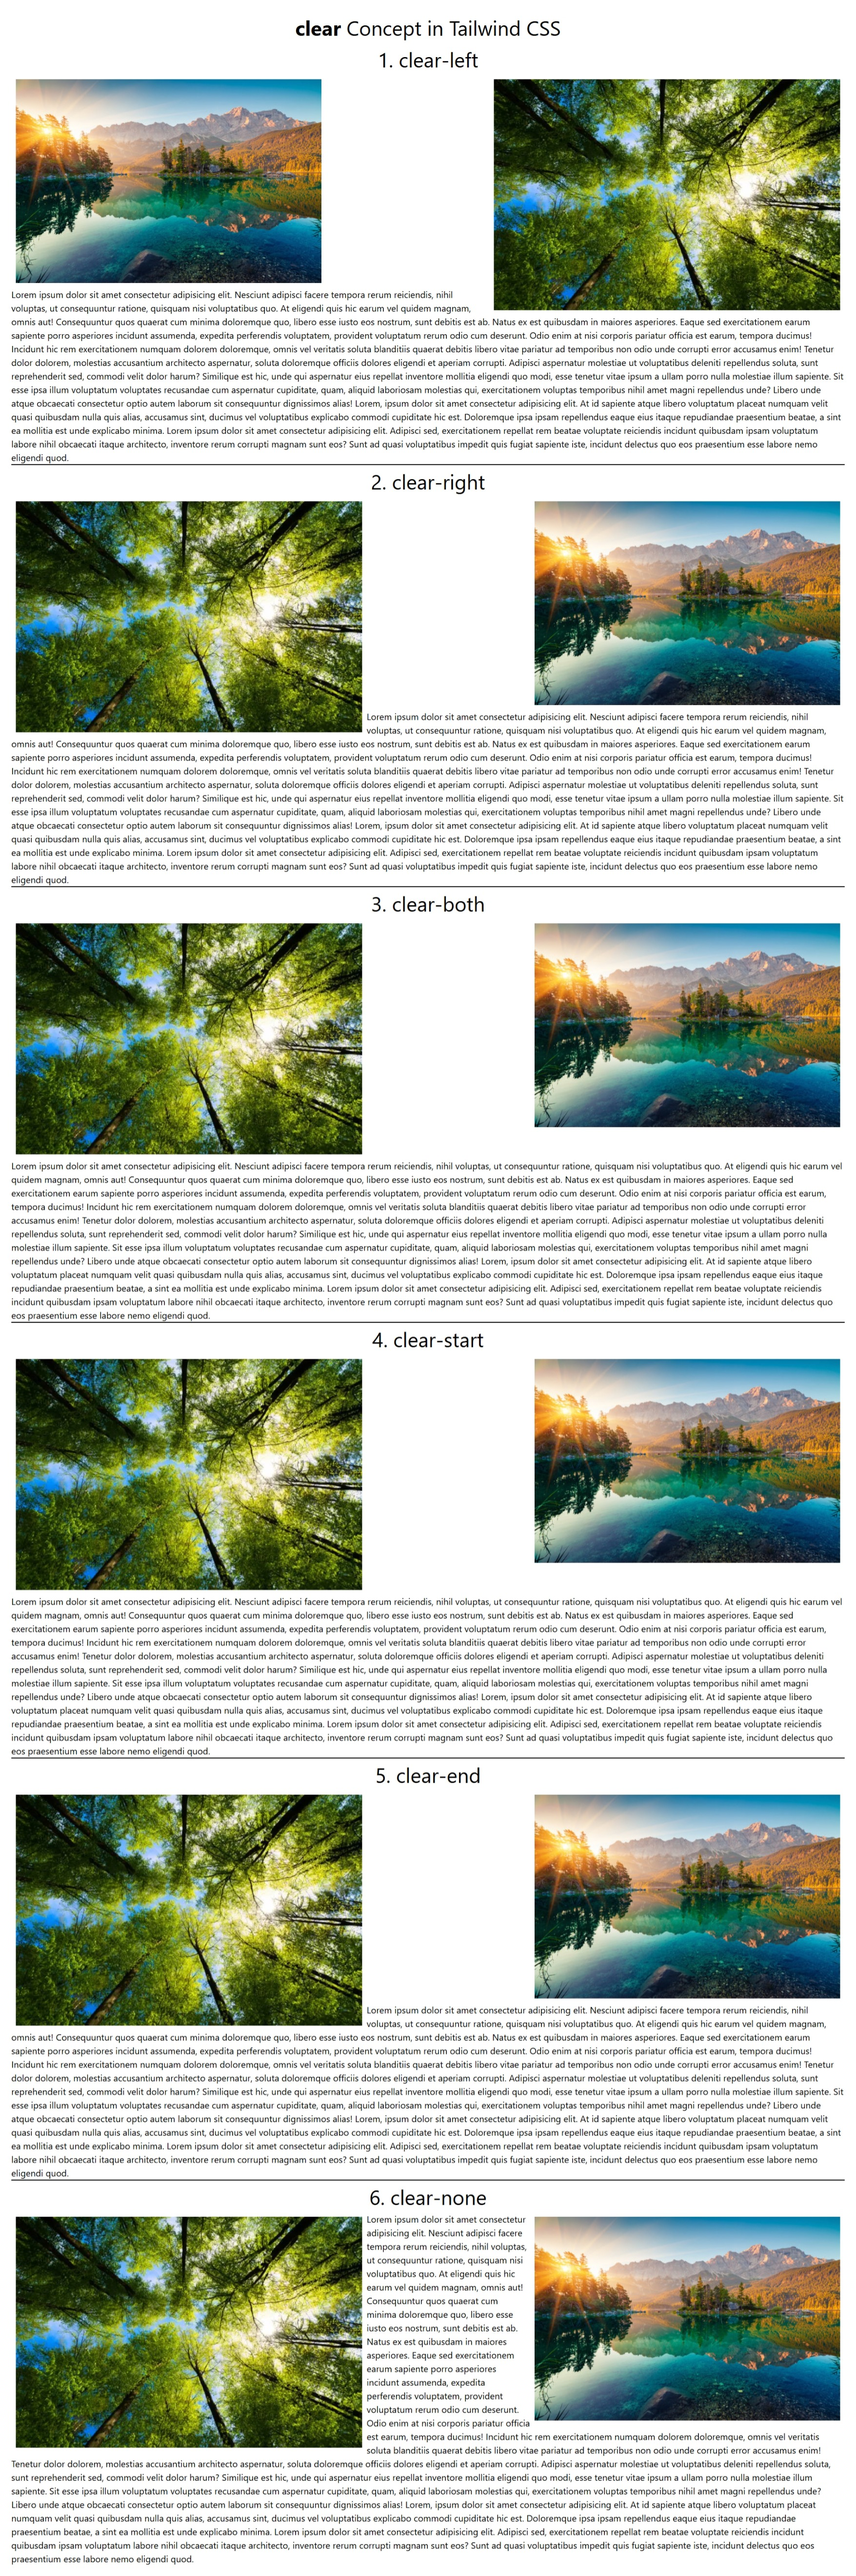
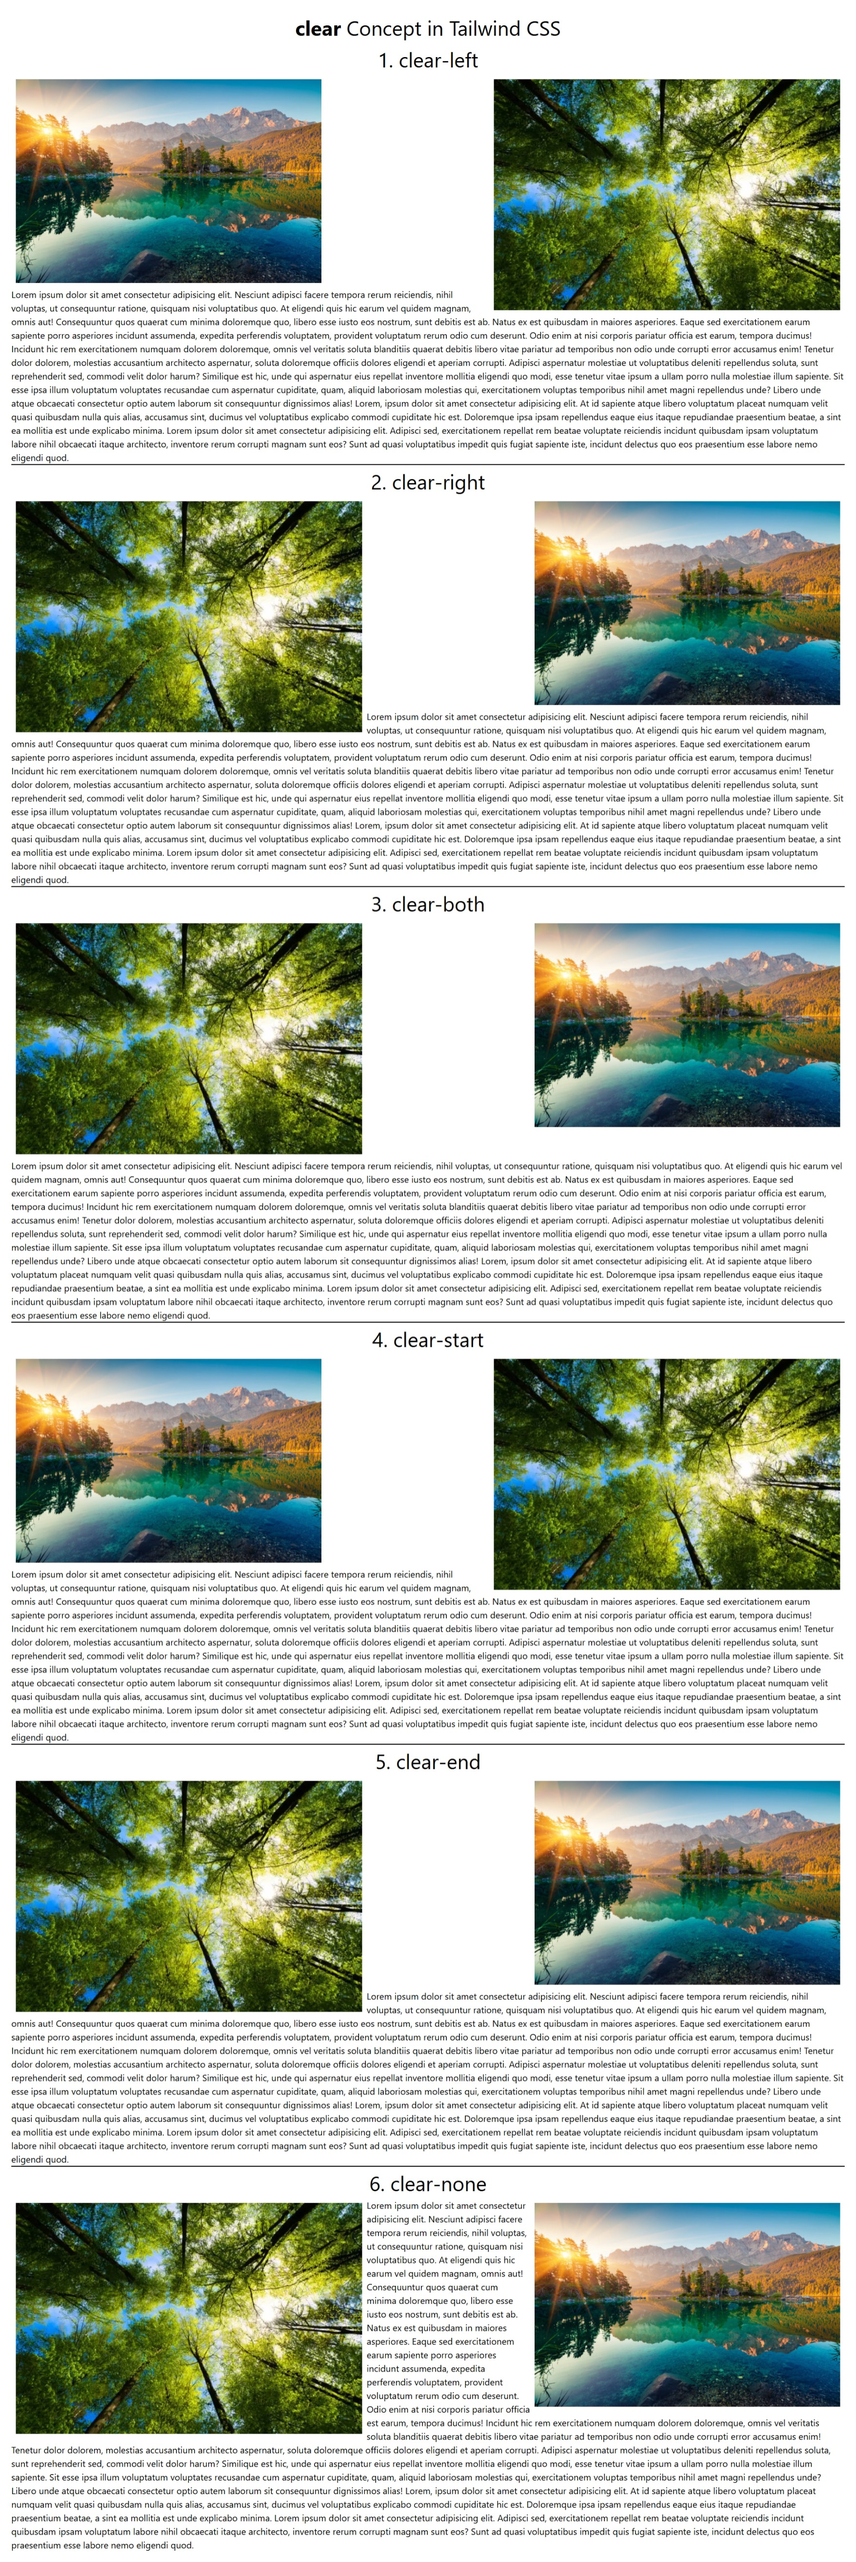
Update in readme

diff --git a/TailwindCss/01Layout/10clear/index.html b/TailwindCss/01Layout/10clear/index.html
@@ -138,8 +138,8 @@
       <hr class="border border-black" />
 
       <h1 class="p-2 text-center text-4xl text-bold">4. clear-start</h1>
-      <img class="float-right m-2" src="./assets/img.jpg" />
-      <img class="float-left m-2" src="./assets/img2.jpg" />
+      <img class="float-right m-2" src="./assets/img2.jpg" />
+      <img class="float-left m-2" src="./assets/img.jpg" />
 
       <p class="clear-start">
         Lorem ipsum dolor sit amet consectetur adipisicing elit. Nesciunt
